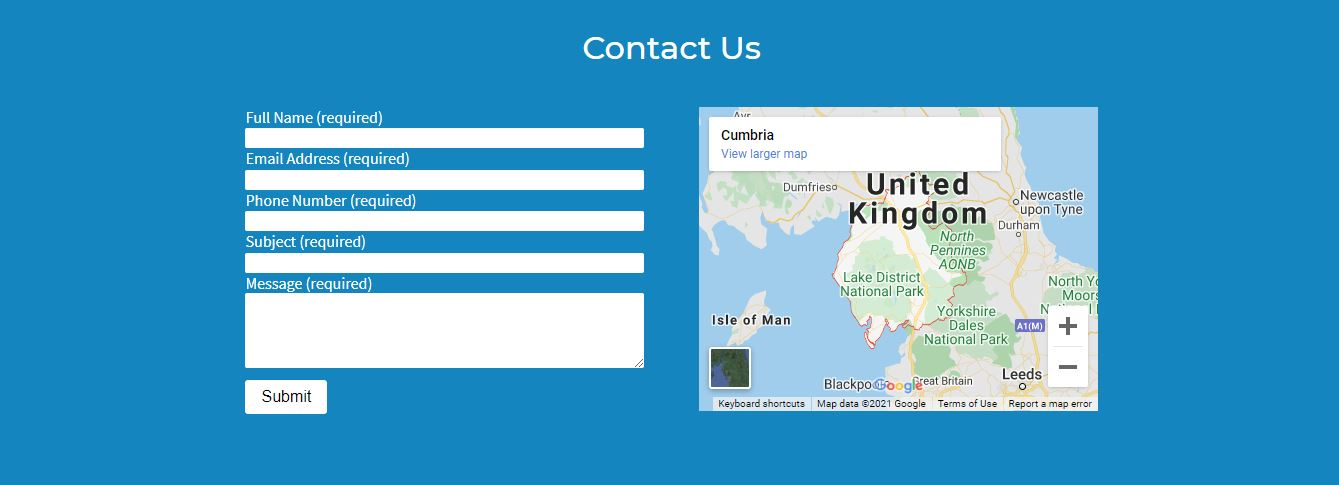
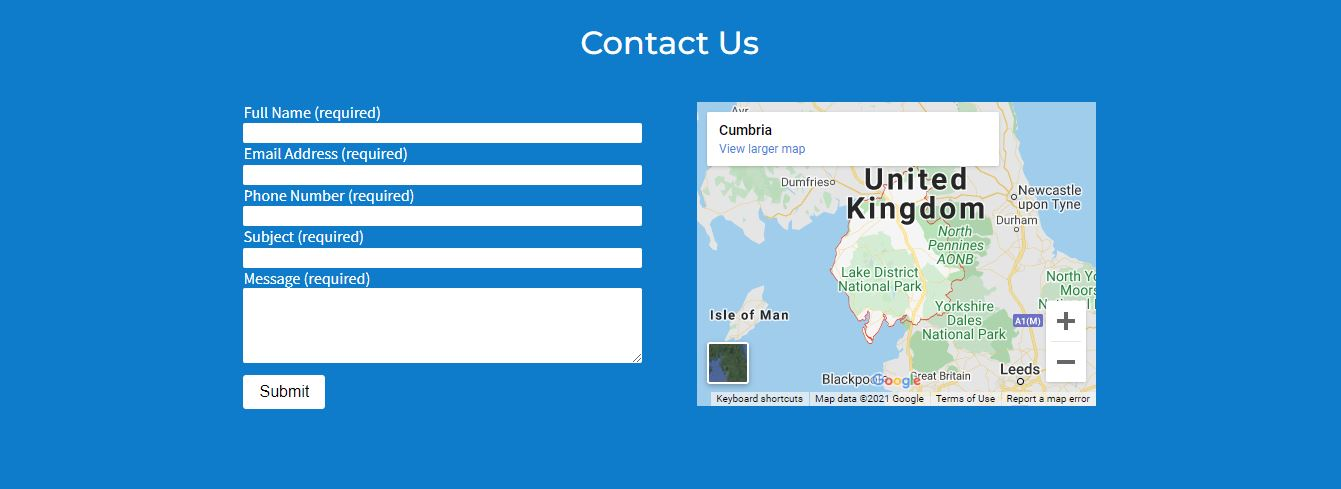
Added bugs section to readme, and changed lighthouse images. Also, amended css for gallery so that the thumbnail images now have a minimum height. Changed font for when filling in form

diff --git a/index.html b/index.html
@@ -218,21 +218,21 @@
         <div class="contact-us-container">
             <form class="contact-us-form" action="https://formdump.codeinstitute.net/" method="post">
                 <label for="full-name">Full Name (required)</label>
-                <input type="text" id="full-name" class="form-input" name="full-name" required>
+                <input type="text" id="full-name" class="form-input form-font" name="full-name" required>
                 
                 <label for="email-address">Email Address (required)</label>
-                <input type="email" id="email-address" class="form-input" name="email-address" required>
+                <input type="email" id="email-address" class="form-input form-font" name="email-address" required>
 
                 <label for="phone-number">Phone Number (required)</label>
-                <input type="tel" id="phone-number" class="form-input" name="phone-number" required>
+                <input type="tel" id="phone-number" class="form-input form-font" name="phone-number" required>
                 
                 <label for="subject">Subject (required)</label>
-                <input type="text" id="subject" class="form-input" name="subject" required>
+                <input type="text" id="subject" class="form-input form-font" name="subject" required>
 
                 <label for="message">Message (required)</label>
-                <textarea id="message" class="form-input" name="message" cols="30" rows="5" required></textarea>
+                <textarea id="message" class="form-input form-font" name="message" cols="30" rows="5" required></textarea>
 
-                <input type="submit" value="Submit" class="submit-button">
+                <input type="submit" value="Submit" class="submit-button form-font">
             </form>
             <div class="map-container">
                 <iframe title="A map of Cumbria - the area covered by the company" src="https://www.google.com/maps/embed?pb=!1m18!1m12!1m3!1d838239.760022499!2d-3.500131869075072!3d54.527639473349424!2m3!1f0!2f0!3f0!3m2!1i1024!2i768!4f13.1!3m3!1m2!1s0x48632ab0a13de7c5%3A0x16e1925b0544819a!2sCumbria!5e0!3m2!1sen!2suk!4v1624716587323!5m2!1sen!2suk" width="600" height="450" style="border:0;" allowfullscreen="" loading="lazy"></iframe>

diff --git a/assets/css/style.css b/assets/css/style.css
@@ -362,7 +362,7 @@ header {
 }
 
 .gallery-thumbnails {
-    padding: 1% 0;
+    padding: 1vh 0;
     text-align: center;
     
 }
@@ -370,13 +370,14 @@ header {
 .gallery-thumbnails-image {
     width: 80%;
     max-width: 200px;
-    margin: 0 .5%;
+    margin: 0 .5vw;
 }
 
 .gallery-thumbnails-image img {
     display: inline-block;
     height: 8vw;
-    max-height: 50px;
+    max-height: 8vh;
+    min-height: 10px;
     border-radius: 5px;
 }
 
@@ -452,6 +453,12 @@ header {
 
 .contact-us-form textarea {
     height: auto;
+}
+
+.form-font {
+    font-family: Arial, sans-serif;
+    font-weight: 500;
+    font-size: .9rem;
 }
 
 .submit-button {

diff --git a/README.md b/README.md
@@ -190,19 +190,17 @@ For the hero image I chose an image that I felt appeared to showcase the company
 
 ### Performance Testing
 
-- __Google Chrome Lighthouse__
-
 I audited the website for mobile and desktop using Google Chrome's lighthouse feature. At first the performance and accessibility scores weren't good enough. The low performance was due to image sizes being too large which was easily solved by reducing the image sizes appropriately using [Online Image Resizer](https://resizeimage.net/). The accessibility issues were due to contrast ratio issues with the original blue (#0683C0) backgroud colour and the white (#ffffff) foreground colour in some of the sections. This was easily solved by putting the relevant colours into the [WebAIM: Contrast Checker](https://webaim.org/resources/contrastchecker/) and adjusting the blue colour slightly until the minimum contrast ratio was met. Fortunatley the colour did not need too much tweaking, meaning that the change is barely noticable and does not affect the originally intended appearance of the website.
 
 The final lighthouse scores are as follows:
 
   - Mobile
 
-  ![Mobile Lighthouse](assets/images/lighthouse-mobile.jpg)
+  ![Mobile Lighthouse](assets/images/lighthouse-mobile2.jpg)
 
   - Desktop
 
-  ![Desktop Lighthouse](assets/images/lighthouse-desktop.jpg)
+  ![Desktop Lighthouse](assets/images/lighthouse-desktop2.jpg)
 
 ### User Goals Testing
 
@@ -244,7 +242,7 @@ The final lighthouse scores are as follows:
 - _As the owner I would like customers to be able to find us on various social media sites:_
     - Within the footer there are links to the company's various social media pages which the user can click on.
 
-### Device Compatibility Testing
+### Device and Browser Compatibility Testing
 
 To test the site's compatibility across a range of devices I used [Responsinator](https://www.responsinator.com/) and went through all of the user and owner goals on each device it includes in both portrait and landscape modes. The devices included are as follows:
 
@@ -259,29 +257,36 @@ Chrome Dev Tools was also used to check the site's compatibility across a range 
   - Ipad Pro
   - Galaxy Fold (which has a very narrow viewport of only 280px in portrait mode)
 
-A regular desktop monitor was used in various resolutions to check that the site remains to look and act as expected on larger screens. The resolutions include: 1366 x 768 and 1920 x 1080.
-
 Actual mobile devices belonging to family and friends were also used for testing which include the following:
 
   - iPhone 7
   - Pixel 4
   - S10 Plus
 
-On all devices used for testing, whether real or simulated, the site looked and functioned as expected and all of the user and owner goals were met to a standard I was happy with.
+A desktop monitor was also used for testing with a couple of different resolutions to check that the site remains to look and act as expected on larger screens. The resolutions were: 1366 x 768 and 1920 x 1080.
 
-### Browser Compatibility Testing
-
-Google Chrome was used for the majority of testing during the development process, but once development had neared an end some other browsers were used for testing to make sure the site has cross browser compatibility. The full list of browsers used for testing are as follows:
+Google Chrome was the browser used for the majority of testing during the development process, but once development had neared an end some other browsers were used for testing to make sure the site had cross browser compatibility. The full list of browsers used for testing are as follows:
 
   - Chrome
   - Internet Explorer 11
   - Edge
   - Firefox
-  - Safari
+
+On all devices and browsers used for testing, whether real or simulated, the site looks and functions as expected, other than some small issues which are outlined in the [Bugs](#bugs) section below. Despite these, all of the user and owner goals are met to a standard I am happy with.
 
 ### Bugs
 
 #### Known Bugs
+
+  - When using Edge, Internet Explorer, and some of the real mobile devices, the smooth scroll behaviour that's been set to apply when using the site's navigation links, doesn't actually work, and instead the user is instantly taken to the relevant section without any transition. This is not too much of a big deal, but it is not the desired behaviour.
+
+  - When filling in the Contact Us form on mobile devices the browser automatically zooms in and focuses on the relevant field, and a virtual keyboard appears taking up over half of the screen. Luckily the browser also hides the site's fixed header which allows the user to be able to see the relevant form field(s). When in landscape mode, though, an issue arises if the user scrolls up towards the top of the site whilst in this focused state . This causes the header to appear again, which when combined with the pop-up keyboard, hides the form entirely. It's not too much of a problem as the header disappears again when scrolling back down, and it's not a particularly likely scenario but since I observed it I thought it was worth mentioning.
+
+  Before Scrolling | After Scrolling
+  - | -
+  ![Form Zoom Example 1](assets/images/form-zoom-landscape1.png) | ![Form Zoom Example 2](assets/images/form-zoom-landscape2.png)
+
+  - Another issue I discovered was to do with the hamburger menu functionality. With the help of [Kevin Powell's YouTube video](https://www.youtube.com/watch?v=8QKOaTYvYUA), using only CSS I added a working hamburger stlye menu for use on smaller devices to the site. It was working as expected - the menu appeared or disappeared when clicked - but the menu didn't disappear when any of the links were clicked. I felt this might be an issue for some users, and wasn't the desired functionality. I therefore mentioned this to my mentor who subsequently helped me to add some javascript in order to tackle this issue. The menu now disappears when the links are clicked, but another issue has arisen instead, though of lesser value. Now, when the menu is in a visible state, if the hamburger icon is clicked with the intent of closing the menu, it no longer has this functionality. The user must instead click on one of the menu's links for the menu to disappear. Again, not perfect functionality, but better thatn before. So for the purposes of this project I beleive it to be ok, and probably not worth delving deeper into javascript to fix it just yet.
 
 ## Technologies Used
 
